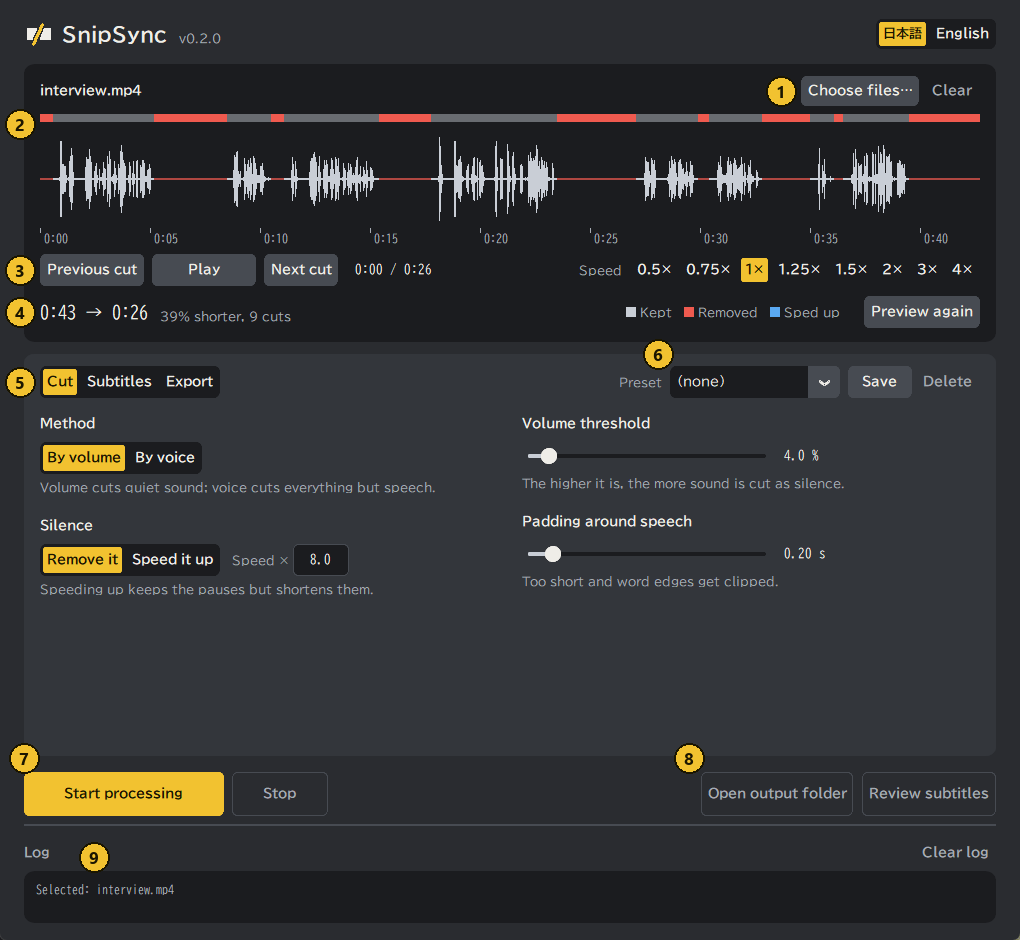
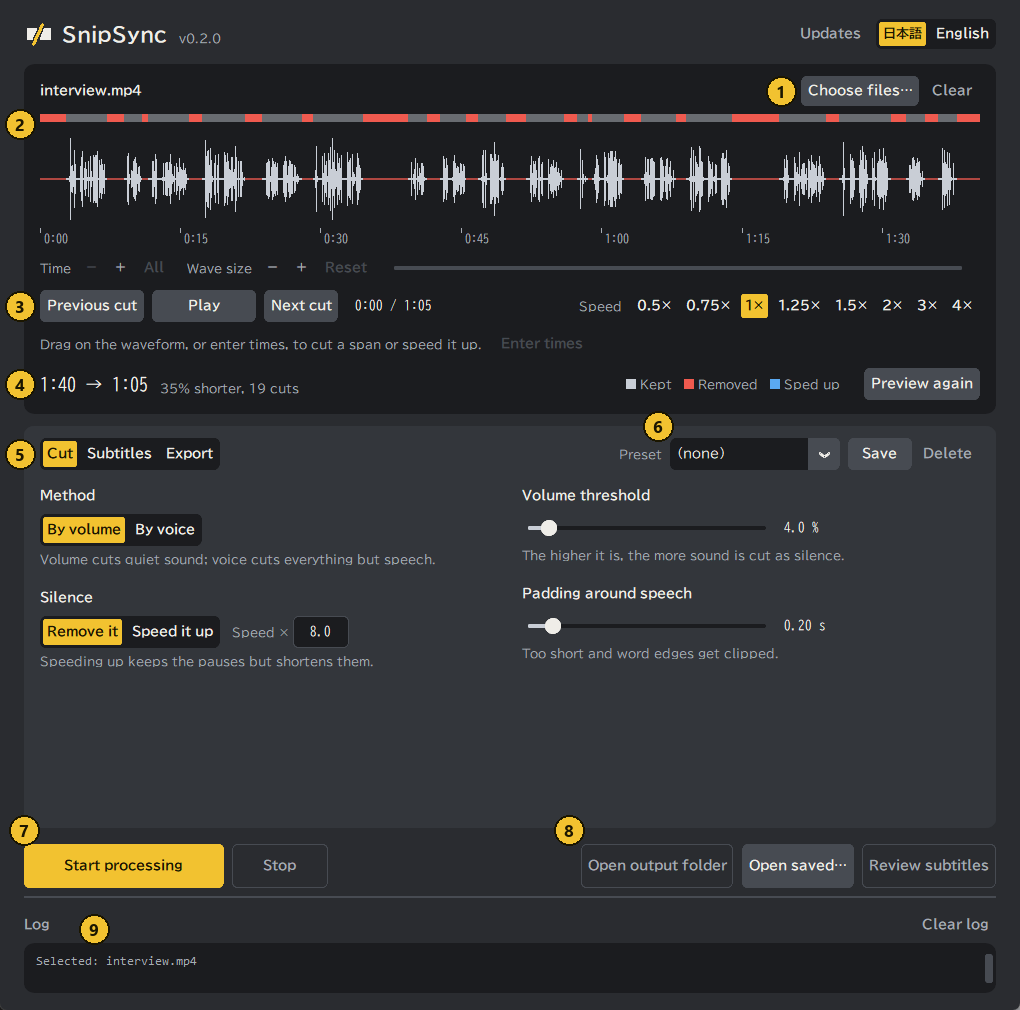
docs: README を見直し、新機能の説明とスクリーンショット・GIF を追加（4 言語）
- 設定項目の名前を、画面の表示に合わせた
- 手動のカット・倍速、波形の拡大・縮小、数値指定、字幕を消すと同時にカット、話者タブ、清書の説明を追加
- 画像をすべて撮り直し、manual・cut の GIF、話者タブ・清書・手動の編集一覧の画像を追加
  （合成音声 2 人分の見本録音を使用。個人の録画は使っていない）

diff --git a/README.md b/README.md
@@ -50,6 +50,8 @@
 
 Because the subtitle pipeline runs transcription on the *already-cut* audio (not the raw source), timecodes in the `.srt` file are always in perfect sync with the exported timeline — a problem that plagues most other tools.
 
+**Hand-tune it after the automatic pass.** Select a span on the waveform by dragging or by typing times, and delete it or speed it up. In the review window, deleting a subtitle can also cut that span of video and audio, and rewrites the subtitles and the timeline. Saved edits can be reopened later.
+
 No Python installation required. SnipSync ships as a single `.exe` file.
 
 **It also works for meeting minutes.** Give it a recording of a meeting (Zoom, Teams, or in person) and it transcribes the audio with the silences taken out, split by speaker, and writes `.txt` or `.md`. Speakers can be given names such as "Yamada" and "Sato", so the result is a ready first draft of the minutes. Audio-only files work too. Transcription and speaker separation still make mistakes, so fix them in the subtitle review window before saving.
@@ -69,11 +71,15 @@ No Python installation required. SnipSync ships as a single `.exe` file.
 | 📁 **Drag & Drop** | Simply drag your video file onto the app window |
 | 📦 **Zero Setup** | Ships as a single `.exe` — no Python, no dependencies to install |
 | 🎙 **Voice-Activity Cut** | Choose volume threshold or speech detection (Silero VAD); optionally speed silence up instead of cutting |
-| 〰 **Waveform Preview** | See exactly what will be cut before you process |
+| 〰 **Waveform Preview** | See exactly what will be cut before you process; zoom the time axis and the wave height separately |
+| ✋ **Manual Cuts & Speed-ups** | Drag a span on the waveform, or type its start and end, then delete it or speed it up. It is laid over the automatic cuts and shows up at once |
+| ✂ **Delete a Subtitle, Cut the Footage** | In the review window, deleting a subtitle can also cut its video and audio; the subtitles and the timeline are rewritten |
+| 🔁 **Resume Editing** | Reopen a saved session (`<name>.snipsync.json`): speaker names, change marks, the source video and manual spans come back |
+| 🧹 **Transcript Polish (LLM)** | Add punctuation and fix obvious mishearings with an LLM on your PC (the text stays on it), or with files to paste into a chat |
 | 🧩 **Batch & Audio Files** | Drop several files or a folder; audio-only inputs and cut-media export supported |
 | 🈶 **Readable Subtitles** | Japanese phrase-aware line breaks (BudouX), glossary hints, optional speaker separation |
 | 📄 **Transcript Export** | Preview and save the whole transcript as `.txt` / `.md` / `.srt` |
-| 📍 **Timeline Markers** | Optional cut-point / speaker-change markers (confirmed in DaVinci Resolve 21; not yet verified in Premiere Pro or Final Cut Pro) |
+| 📍 **Timeline Markers** | Optional cut-point / speaker-change / subtitle-start markers (confirmed in DaVinci Resolve 21; not yet verified in Premiere Pro or Final Cut Pro) |
 
 ### Supported Export Formats
 
@@ -188,7 +194,7 @@ flowchart LR
 | # | Where | What it is |
 |:-:|---|---|
 | ① | Choose files / Clear | You can also drop video or audio files (several, or a whole folder) onto the waveform. **Choose files…** opens a file picker |
-| ② | Waveform | See what will be cut *before* you process. **Red** is removed, **blue** is sped up, grey is kept. Click the waveform to move the playhead there |
+| ② | Waveform | See what will be cut *before* you process. **Red** is removed, **blue** is sped up, grey is kept. Click the waveform to move the playhead there. Drag to select a span for a manual cut or speed-up; the buttons under it zoom |
 | ③ | Playback | Previous cut / Play / Next cut, and playback speed (0.5× to 4×). Listen to the result before processing |
 | ④ | Length and reduction | Length before → after, percent shorter, number of cuts. After changing a setting, press **Preview again** |
 | ⑤ | Setting tabs | **Cut** (method, threshold, padding, silence), **Subtitles** (AI model, speakers, …), **Export** (format, save folder, …) |
@@ -247,12 +253,20 @@ While **Review before saving** is on (the default), processing pauses at the sub
 | ③ | **Preview again** — press it after changing the cut settings to recalculate |
 | ④ | Playback, jumping to the previous or next cut, and playback speed |
 | ⑤ | The bar above the waveform: **red** = removed, **blue** = sped up, grey = kept |
+| ⑥ | Zoom: the **Time** and **Wave size** buttons, **All**, and the scroll bar |
+| ⑦ | Manual cuts: drag a span (or press **Enter times**), then **Cut it** / **Speed up N x** |
 
 **Zooming the waveform:** the **Time** buttons (or the mouse wheel over the waveform) zoom in and out along the time axis, down to half a second; the point under the cursor stays put. While zoomed in, Shift + wheel or the scroll bar moves left and right, and **All** shows everything. **Wave size** (or Ctrl + wheel) makes the waveform taller so quiet sounds are visible. Zooming does not change the cuts.
 
 **Entering a span by numbers:** press **Enter times** (it starts a 5-second span at the play position), or drag a span first, then type **From** and **To** as `90`, `1:30`, `1:30.25` or `0:01:30.250`. Press Enter to confirm; a value that cannot be read, or an end that is not later than the start, goes back to the previous span. The span is clamped to the video length.
 
 **Manual cuts and speed-ups:** drag on the waveform to select a span, then press **Cut it** or **Speed up N x** (N is the Speed value of the Cut tab). The span is laid over the automatic cuts and shows up on the waveform at once, so you can play it to check. **Manual edits: N…** lists them and removes them one by one. A cut is always cut; a speed-up affects only the part that is kept. They apply to the video you have chosen (choosing another clears them), and they go into the timeline, the subtitle times and the editing session when you press Start. A speed-up also speeds up the audio that subtitles are made from, so a very high rate can make the recognised text unreliable.
+
+<p align="center"><img src="docs/images/manual_en.gif" width="760" alt="Manual cuts and speed-ups: select a span, edit its start and end as numbers, delete it (red), speed up another (blue), zoom the time axis and wave height, and open the list of manual edits"></p>
+
+The animation selects a span, edits its start and end as numbers, deletes it (red), speeds up another span (blue), zooms in on time and wave height, and opens the list. **Manual edits: N…** lists the spans you set and removes them one by one.
+
+<p align="center"><img src="docs/images/manual_list_en.png" width="420" alt="The list of manual edits: each span with its kind, start, end and length, removable one by one"></p>
 
 #### 4. (Optional) Read and fix the subtitles — the review window
 
@@ -270,11 +284,24 @@ While **Review before saving** is on (the default), processing pauses at the sub
 | ⑧ | **Save**. **Save as…**, **Copy** and **Open…** are next to it |
 
 - **Speakers tab:** lists each speaker with their speaking time, cue count and share. Speaker separation can split one person into dozens of labels. Select the labels that are the same person and **Merge** them into one; **Listen** plays the speaker's longest cue in the main window so you can tell whose voice it is; **Set name** names a speaker. Two automatic helpers move tiny labels (less than 30 seconds in total, by default) and short remarks between two turns of the same speaker to the nearest speaker in time, after showing you how many speakers remain. **Renumber** orders speakers by speaking time. Every step can be undone.
+
+<p align="center"><img src="docs/images/editor_speakers_en.png" width="640" alt="The Speakers tab: each speaker's speaking time, cue count and share"></p>
+
 - **Click a time** (in the list, or above the text box) to play the main window's preview from that subtitle. It works when the video is chosen in the main window and the cut map is shown.
 - **Delete a subtitle and cut its video and audio at the same time:** turn on **When deleting, also cut the video/audio** under the subtitle, then delete a subtitle. Its span, plus a **margin** on each side (default 0.1 s), is marked for cutting, and the mark also shows on the main window's cut map when the same video is open there. Undo removes the mark. **Save** asks for confirmation, re-times the saved subtitles, and overwrites the timeline in place. **Save as…** writes the subtitles and the timeline (`<name>_snipsynced.<extension>`) under the new name and leaves the original files alone. If rewriting the timeline fails, that is remembered and the next save retries it. It is unavailable while the subtitles are still waiting for the pre-save review, and when the export is the video or audio file itself.
+
+<p align="center"><img src="docs/images/cut_en.gif" width="640" alt="Delete a subtitle and cut its footage: select a subtitle, turn the switch on, delete it, see the span marked on the cut map, then save to rewrite the timeline"></p>
+
+The animation selects a subtitle, turns the switch on, deletes it, shows the red mark on the main window's cut map, and presses **Save** to rewrite the timeline.
+
 - **Where the .srt goes:** every time you save, the log in the main window shows when the first subtitle appears on the timeline (for example `00:00:23:10`). DaVinci Resolve trims the empty time before the first subtitle when it imports an SRT, so put the left edge of the subtitle track (the first subtitle) at that time; if it already sits there after importing, there is nothing to move. When the opening is sped up or cut, the first subtitle is far from 0 s. If timeline markers are on, a green marker named **Subtitles start** is also placed at that time.
 - **Pick up where you left off:** saving also writes `<name>.snipsync.json` next to the output. **Open saved…** (main window) or **Open…** (editor) reads it back after you restart the app: speaker names, the marks for changed rows, the source video and the cut settings come back. An `.srt` alone can be opened too; its `Speaker N:` prefixes are read as speakers, but names, change marks and the video are not kept.
 - **Polish… (LLM):** have an LLM add punctuation and fix obvious mishearings in the tidied transcript. Two ways. **LLM on this PC** talks to an OpenAI-compatible server running on your PC (Ollama, LM Studio, llama.cpp server). Only `127.0.0.1` / `localhost` is accepted, so the text never leaves the PC; prepare the model yourself and enter its name. **Files to paste** writes a `<name>_polish` folder with `00_howto.md` and `01.txt`, `02.txt`… (instructions plus text, split to a length you choose) for pasting into the chat you normally use; that sends the text to that service, so check first. The LLM is told not to summarise or add content, and a returned line is accepted only if its length stays close to the original; otherwise the original line is kept. The result is written as `<name>_polished.txt` / `.md`; the `.srt` and your editing are not touched.
+
+<p align="center"><img src="docs/images/polish_en.png" width="560" alt="The Polish window: choose LLM on this PC or files to paste, then set the endpoint, model and length"></p>
+
+<p align="center"><img src="docs/images/polish_paste_en.png" width="560" alt="The Polish window with Files to paste chosen: the length of each file"></p>
+
 
 <p align="center"><img src="docs/images/editor_en.gif" width="640" alt="Using the review window: select several rows, change their speaker at once, name the speaker, check the .srt preview, and turn off speaker names"></p>
 
@@ -288,22 +315,23 @@ See [Importing into your editor](#importing-into-your-editor) below.
 
 | Setting | What it does |
 |---|---|
-| **Silence Margin** | Extra time kept around speech at each cut (default `0.20 s`) |
-| **Volume Threshold** | Level below which sound counts as silence (default `4.0 %`). Not used by *Voice detection* |
-| **Cut Method** | *Volume threshold*, or *Voice detection (VAD)* — cuts everything that is not a human voice, so it usually copes better with background noise |
+| **Padding around speech** | Extra time kept around speech at each cut (default `0.20 s`) |
+| **Volume threshold** | Level below which sound counts as silence (default `4.0 %`). Not used by *Voice detection* |
+| **Method** | *Volume threshold*, or *Voice detection (VAD)* — cuts everything that is not a human voice, so it usually copes better with background noise |
 | **Silence** | *Cut out* removes silence; *Speed up* keeps it but plays it at the speed you set (default ×8) |
-| **Export Format** | DaVinci Resolve, Premiere Pro, Final Cut Pro, or *Cut media* (a rendered video/audio file) |
+| **Output** | DaVinci Resolve, Premiere Pro, Final Cut Pro, or *Cut media* (a rendered video/audio file) |
 | **Make a dated folder for each run** | On by default. Creates a `date_model` folder (for example `2026-10-04_190357_large-v3`) inside the save folder and writes everything there. Each run gets its own folder, so earlier results are never overwritten. When you process several files at once, they all go into the same folder. If subtitles are off, the name is the date only. A `.fcpxml` stores the location of its audio (`_tracks`) as an absolute path, so do not move the folder after importing. If you did, choose **Yes** in Resolve's dialog and point it at the `_tracks` folder |
-| **Subtitles** | Generate `.srt` with Whisper |
-| **AI Model Size** | `tiny`/`base`/`small` are fast; **`large-v3-turbo` is the recommended accurate model**; `kotoba-whisper` is Japanese-specialised but experimental (its word timing is coarse); `distil-large-v3` is English only |
-| **Use GPU (CUDA)** | Optional. Needs an NVIDIA GPU. The first time, it asks before downloading the components (about 1.4 GB) |
-| **Split subtitles at cut boundaries** | Starts a new subtitle at every cut, so subtitles line up with your clips |
-| **Chars per subtitle line** | Wraps Japanese at natural phrase boundaries (BudouX) and keeps each subtitle to 2 lines. `0` turns it off (default `20`) |
-| **Separate speakers** | Labels who is speaking (`Speaker 1: …`) and starts a new subtitle when the speaker changes. Set **Speakers** (2 to 20) if you know how many people there are: that is the most accurate. On **Auto**, small speaker labels with a similar voice are merged into larger ones, and anything left can be fixed in the review window's Speakers tab |
+| **Make subtitles** | Generate `.srt` with Whisper |
+| **Review before saving** | On by default. After the subtitles are made, processing pauses in the review window; fix them, then save |
+| **AI model** | `tiny`/`base`/`small` are fast; **`large-v3-turbo` is the recommended accurate model**; `kotoba-whisper` is Japanese-specialised but experimental (its word timing is coarse); `distil-large-v3` is English only |
+| **Use the GPU** | Optional. Needs an NVIDIA GPU. The first time, it asks before downloading the components (about 1.4 GB) |
+| **New subtitle at every cut** | Starts a new subtitle at every cut, so subtitles line up with your clips |
+| **Characters per line** | Wraps Japanese at natural phrase boundaries (BudouX) and keeps each subtitle to 2 lines. `0` turns it off (default `20`) |
+| **Label speakers** | Labels who is speaking (`Speaker 1: …`) and starts a new subtitle when the speaker changes. Set **Speakers** (2 to 20) if you know how many people there are: that is the most accurate. On **Auto**, small speaker labels with a similar voice are merged into larger ones, and anything left can be fixed in the review window's Speakers tab |
 | **Add punctuation** | Adds `、` `。` `？` to Japanese transcripts, using a sample sentence for Whisper and the pauses between words. It goes into `.txt` / `.md` and the editor, never into the `.srt` (subtitles carry no commas or full stops) |
 | **Tidy the transcript** | In `.txt` / `.md`, a short remark from another speaker (8 characters or fewer) inside someone's turn is put in brackets in the middle of the sentence, so the sentence is not broken up. Long turns are split into paragraphs at sentence ends. The `.srt` is unchanged. Turn it off in the editor with **Tidy for reading** |
-| **Also write .txt / .md** | Saves the whole transcript (with speakers and timestamps) next to the subtitles |
-| **Add markers** | Adds markers for every cut and every speaker change to the timeline. For Resolve only, they are written to a separate `<name>_markers.edl` file *(experimental — see notes)* |
+| **Also save** (**.txt transcript**, **.md transcript**) | Saves the whole transcript (with speakers and timestamps) next to the subtitles |
+| **Markers (experimental)** | Adds markers for every cut and every speaker change to the timeline. For Resolve only, they are written to a separate `<name>_markers.edl` file *(experimental — see notes)* |
 | **Glossary** | Comma-separated terms (names, product names) that Whisper should prefer |
 | **Preset** | Save and load a whole set of settings. Your last settings are restored on launch |
 
@@ -330,7 +358,7 @@ Menu names can differ slightly between versions.
 
 - **Cut media export at 4K**: the bundled auto-editor (no license key) scales rendered output down to 3200×1800 or less. SnipSync warns you before it starts. **Timeline exports are not affected** — use them for full-resolution work.
 - **Audio-only cut media** is written as `.wav` / `.flac` / `.ogg` / `.opus`. `.mp3`, `.m4a`, `.aac` and `.wma` are written as `.wav` because the bundled auto-editor has no encoder for them.
-- **Markers** are experimental: they are confirmed to import into DaVinci Resolve 21, but not yet verified in Premiere Pro or Final Cut Pro. **DaVinci Resolve does not read markers from `.fcpxml`**, so for Resolve they are written to a separate `<name>_markers.edl` (blue = cut point, yellow = speaker change). In the Media Pool, right-click the **icon of the timeline** you want to mark, choose **Timelines > Import > Timeline Markers from EDL**, then pick that file. Do not use the menu that opens when you right-click an empty area (Timeline > Import > AAF / EDL / XML…): it loads the EDL as a separate timeline of one-frame clips. The EDL's times follow the timeline's start timecode. For Premiere Pro and Final Cut Pro, the markers go inside the timeline file.
+- **Markers** are experimental: they are confirmed to import into DaVinci Resolve 21, but not yet verified in Premiere Pro or Final Cut Pro. **DaVinci Resolve does not read markers from `.fcpxml`**, so for Resolve they are written to a separate `<name>_markers.edl` (blue = cut point, yellow = speaker change, green = start of the subtitles). In the Media Pool, right-click the **icon of the timeline** you want to mark, choose **Timelines > Import > Timeline Markers from EDL**, then pick that file. Do not use the menu that opens when you right-click an empty area (Timeline > Import > AAF / EDL / XML…): it loads the EDL as a separate timeline of one-frame clips. The EDL's times follow the timeline's start timecode. For Premiere Pro and Final Cut Pro, the markers go inside the timeline file.
 - **Cuts differ from SnipSync 0.1.0**: the newer auto-editor also removes cuts and clips that are too short (`--smooth`), so you will see fewer, longer cuts.
 - Subtitles start at the first spoken word, so each subtitle begins a little after the start of its clip. This is expected (the margin is kept silent).
 

diff --git a/README_KO.md b/README_KO.md
@@ -50,6 +50,8 @@
 
 자막 생성 파이프라인은 원본 소스가 아닌 **이미 컷 편집된** 오디오에 대해 음성 인식을 실행하므로, `.srt` 파일의 타임코드가 내보낸 타임라인과 항상 완벽하게 동기화됩니다. 타 도구에서 발생하는 오디오와 자막의 싱크 어긋남 문제를 근본적으로 해결했습니다.
 
+**자동 처리 뒤에 손으로도 다듬을 수 있습니다.** 파형에서 드래그하거나 시각을 입력해 구간을 고르고, 삭제하거나 배속합니다. 자막 확인 창에서 자막을 지우면 그 구간의 영상·음성도 함께 자르고, 자막과 타임라인을 다시 씁니다. 저장한 편집은 나중에 다시 열어 이어서 할 수 있습니다.
+
 Python을 설치할 필요가 없습니다. SnipSync는 단일 `.exe` 파일로 실행됩니다.
 
 **회의록 작성에도 쓸 수 있습니다.** Zoom이나 Teams, 대면 회의를 녹음한 음성을 넣으면, 무음을 줄인 음성을 화자별로 나누어 글로 옮기고 `.txt` 또는 `.md`로 내보냅니다. 화자에 「야마다」「사토」 같은 이름을 붙일 수 있어서, 회의록 초안으로 바로 쓸 수 있습니다. 영상 없이 음성 파일만으로도 처리됩니다. 음성 인식과 화자 분리에는 오류가 남으므로, 자막 확인 창에서 고친 뒤에 저장하세요.
@@ -69,11 +71,15 @@ Python을 설치할 필요가 없습니다. SnipSync는 단일 `.exe` 파일로 
 | 📁 **드래그 앤 드롭** | 비디오 파일을 앱 창에 끌어다 놓기만 하면 됩니다. |
 | 📦 **제로 설정** | 단일 `.exe` 파일로 실행되며, Python이나 종속성을 설치할 필요가 없습니다. |
 | 🎙 **음성 구간 감지 컷** | 볼륨 임계값 또는 음성 감지(Silero VAD) 선택, 무음을 자르지 않고 배속 처리도 가능 |
-| 〰 **파형 미리보기** | 처리 전에 어디가 잘리는지 확인 |
+| 〰 **파형 미리보기** | 처리 전에 어디가 잘리는지 확인. 시간 방향과 파형 높이를 각각 확대·축소 |
+| ✋ **수동 컷·배속** | 파형을 드래그하거나 시작·끝을 숫자로 입력해 구간을 고르고, 삭제하거나 배속합니다. 자동 컷 위에 겹쳐져 바로 표시됩니다 |
+| ✂ **자막을 지우면서 영상·음성도 컷** | 자막 확인 창에서 자막을 삭제하면 그 구간의 영상·음성도 자르고, 자막과 타임라인을 다시 씁니다 |
+| 🔁 **이어서 편집** | 저장한 편집 세션(`<이름>.snipsync.json`)을 열면 화자 이름, 수정 표시, 원본 영상, 수동 구간이 복원됩니다 |
+| 🧹 **문자 기록 다듬기(LLM)** | 이 PC의 LLM(글이 PC 밖으로 나가지 않음) 또는 채팅에 붙여 넣을 파일로 구두점을 보충하고 명백한 오청을 고칩니다 |
 | 🧩 **일괄 처리·오디오 파일** | 여러 파일/폴더 일괄 처리, 오디오 전용 입력과 컷 미디어 내보내기 지원 |
 | 🈶 **읽기 쉬운 자막** | 일본어 문절 줄바꿈(BudouX), 용어 사전, 화자 분리(선택) |
 | 📄 **자막 전문 내보내기** | `.txt` / `.md` / `.srt` 로 미리보기·저장 |
-| 📍 **타임라인 마커** | 컷 지점·화자 전환 마커를 선택적으로 추가(DaVinci Resolve 21 에서 확인함. Premiere Pro·Final Cut Pro 는 검증 전) |
+| 📍 **타임라인 마커** | 컷 지점·화자 전환·자막 시작 마커를 선택적으로 추가(DaVinci Resolve 21 에서 확인함. Premiere Pro·Final Cut Pro 는 검증 전) |
 
 ### 지원하는 내보내기 형식
 
@@ -188,7 +194,7 @@ flowchart LR
 | # | 위치 | 설명 |
 |:-:|---|---|
 | ① | 파일 선택(Choose files) / 해제(Clear) | 영상/오디오 파일(여러 개, 폴더도 가능)을 파형 위에 끌어다 놓아도 됩니다. **Choose files…** 로 선택할 수도 있습니다 |
-| ② | 파형 | 처리하기 *전에* 어디가 잘리는지 볼 수 있습니다. **빨강**은 삭제, **파랑**은 배속, 회색은 남는 부분입니다. 파형을 클릭하면 재생 위치가 그곳으로 이동합니다 |
+| ② | 파형 | 처리하기 *전에* 어디가 잘리는지 볼 수 있습니다. **빨강**은 삭제, **파랑**은 배속, 회색은 남는 부분입니다. 파형을 클릭하면 재생 위치가 그곳으로 이동합니다. 드래그로 구간을 고르면 수동 컷·배속을 할 수 있고, 아래 버튼으로 확대·축소합니다 |
 | ③ | 재생 | Previous cut / Play / Next cut, 재생 속도(0.5×~4×). 처리 전에 잘라낸 결과를 들어볼 수 있습니다 |
 | ④ | 길이와 단축률 | 처리 전 → 처리 후 길이, 단축률, 컷 수. 설정을 바꾸면 **Preview again** 을 누릅니다 |
 | ⑤ | 설정 탭 | **Cut**(방식·임계값·여백·무음 처리), **Subtitles**(AI 모델·화자 등), **Export**(형식·저장 위치 등) |
@@ -247,12 +253,20 @@ Subtitles 탭과 Export 탭은 다음과 같습니다.
 | ③ | **Preview again** — 컷 설정을 바꾼 뒤 눌러서 다시 계산합니다 |
 | ④ | 재생, 이전/다음 컷으로 이동, 재생 속도 |
 | ⑤ | 파형 위의 띠: **빨강** = 삭제, **파랑** = 배속, 회색 = 남음 |
+| ⑥ | 확대·축소: **Time** 과 **Wave size** 버튼, **All**, 스크롤 바 |
+| ⑦ | 수동 컷: 구간을 드래그(또는 **Enter times**)한 뒤 **Cut it** / **Speed up N x** |
 
 **파형 확대·축소:** **Time** 버튼(또는 파형 위에서 마우스 휠)으로 시간 축을 0.5초 폭까지 확대·축소할 수 있으며, 커서 아래의 위치는 움직이지 않습니다. 확대 중에는 Shift + 휠이나 스크롤 바로 좌우로 이동하고, **All** 로 전체를 봅니다. **Wave size**(또는 Ctrl + 휠)로 파형의 높이를 키우면 작은 소리도 보입니다. 확대해도 컷 결과는 바뀌지 않습니다.
 
 **숫자로 구간 지정:** **Enter times** 를 누르거나(재생 위치에서 5초 구간이 만들어짐), 먼저 드래그로 구간을 고른 뒤 **From** 과 **To** 를 `90`, `1:30`, `1:30.25`, `0:01:30.250` 형식으로 입력하고 Enter 로 확정합니다. 읽을 수 없는 값이나 시작보다 앞선 끝 시간은 직전 구간으로 되돌아갑니다. 영상 길이를 넘는 부분은 영상 길이까지로 제한됩니다.
 
 **수동 컷·배속:** 파형을 드래그해 구간을 고른 뒤 **Cut it**(삭제) 또는 **Speed up N x**(N은 Cut 탭의 배율)를 누릅니다. 구간은 자동 컷 위에 겹쳐져 바로 파형에 표시되므로 재생해서 확인할 수 있습니다. **Manual edits: N…** 에서 목록을 보고 하나씩 해제할 수 있습니다. 삭제는 반드시 잘리고, 배속은 남는 부분에만 적용됩니다. 지금 고른 영상에만 적용되며(다른 영상을 고르면 지워짐), 시작을 누르면 타임라인·자막 시간·편집 세션에도 반영됩니다. 배속한 부분은 자막을 만드는 음성도 배속되므로, 배율이 너무 높으면 인식이 불안정할 수 있습니다.
+
+<p align="center"><img src="docs/images/manual_en.gif" width="760" alt="수동 컷·배속: 구간을 고르고, 시작·끝을 숫자로 고치고, 삭제(빨강), 다른 구간 배속(파랑), 시간과 파형 높이 확대, 수동 편집 목록 열기"></p>
+
+애니메이션은 구간을 고르고, 시작·끝을 숫자로 고치고, 삭제(빨강)하고, 다른 구간을 배속(파랑)하고, 시간과 파형 높이를 확대한 뒤 목록을 여는 순서입니다. **Manual edits: N…** 에서 정한 구간을 보고 하나씩 해제할 수 있습니다.
+
+<p align="center"><img src="docs/images/manual_list_en.png" width="420" alt="수동 편집 목록: 구간별 종류, 시작, 끝, 길이가 표시되며 하나씩 해제 가능"></p>
 
 #### 4. (선택) 자막 확인하고 고치기 — 자막 확인·편집 창
 
@@ -270,11 +284,24 @@ Subtitles 탭과 Export 탭은 다음과 같습니다.
 | ⑧ | **Save**. 옆에 **Save as…**, **Copy**, **Open…** 가 있습니다 |
 
 - **Speakers 탭:** 화자별 발화 시간, 자막 수, 비율을 보여 줍니다. 화자 분리는 한 사람을 수십 개의 라벨로 나누기도 합니다. 같은 사람의 라벨을 골라 **Merge** 하면 한 화자로 합쳐집니다. **Listen** 은 그 화자의 가장 긴 자막을 메인 창에서 재생해 누구의 목소리인지 확인할 수 있게 하고, **Set name** 으로 이름을 붙일 수 있습니다. 자동 정리 기능도 두 가지 있습니다. 발화 합계가 짧은 라벨(기본 30초 미만)과, 같은 화자의 발언 사이에 낀 짧은 발언을 시간상 가장 가까운 화자로 옮기며, 적용 전에 화자가 몇 명으로 줄어드는지 먼저 보여 줍니다. **Renumber** 는 발화 시간이 긴 순서로 번호를 다시 매깁니다. 모든 단계는 되돌릴 수 있습니다.
+
+<p align="center"><img src="docs/images/editor_speakers_en.png" width="640" alt="Speakers 탭: 화자별 발화 시간, 자막 수, 비율"></p>
+
 - **시간을 누르면**(목록의 시간 또는 본문 위의 시간) 메인 창의 미리보기가 그 자막의 처음부터 재생됩니다. 메인 창에서 영상을 고르고 컷 맵이 표시되어 있을 때 사용할 수 있습니다.
-- **자막을 지우면서 영상·음성도 함께 자르기:** 자막 아래의 **삭제하면 영상·음성도 자르기**를 켜고 자막을 삭제하면, 그 자막의 구간(앞뒤에 **여유**를 더한 범위, 기본 0.1초)에 자르기 표시가 붙습니다. 메인 화면에서 같은 영상을 열어 두었다면 컷 맵에도 표시됩니다. 되돌리기를 하면 표시도 사라집니다. **저장**을 누르면 확인한 뒤 자막 시각을 다시 맞춰 저장하고, 타임라인을 같은 위치에 덮어씁니다. **다른 이름으로 저장…**은 자막과 타임라인(`<이름>_snipsynced.<확장자>`)을 새 이름으로 쓰고 원래 파일은 그대로 둡니다. 타임라인 다시 쓰기에 실패하면 기록해 두었다가 다음 저장 때 다시 시도합니다. 자막이 저장 전 확인 중일 때와, 내보내기가 영상·음성 파일 자체일 때는 쓸 수 없습니다.
-- **.srt를 놓는 위치:** 저장할 때마다 메인 화면의 로그에 첫 자막이 타임라인에 나오는 시각(예: `00:00:23:10`)이 표시됩니다. DaVinci Resolve는 SRT를 가져올 때 첫 자막 앞의 빈 시간을 없애므로, 자막 트랙의 왼쪽 끝(첫 자막)을 그 시각에 놓으세요(가져온 시점에 이미 그 시각이면 옮길 필요 없습니다). 앞부분을 배속하거나 잘랐다면 첫 자막은 0초에서 멀어집니다. 타임라인 마커를 켠 경우, 같은 시각에 **자막의 선두**라는 녹색 마커도 들어갑니다.
+- **자막을 지우면서 영상·음성도 함께 자르기:** 자막 아래의 **When deleting, also cut the video/audio**(삭제하면 영상·음성도 자르기)를 켜고 자막을 삭제하면, 그 자막의 구간(앞뒤에 **여유**를 더한 범위, 기본 0.1초)에 자르기 표시가 붙습니다. 메인 화면에서 같은 영상을 열어 두었다면 컷 맵에도 표시됩니다. 되돌리기를 하면 표시도 사라집니다. **저장**을 누르면 확인한 뒤 자막 시각을 다시 맞춰 저장하고, 타임라인을 같은 위치에 덮어씁니다. **다른 이름으로 저장…**은 자막과 타임라인(`<이름>_snipsynced.<확장자>`)을 새 이름으로 쓰고 원래 파일은 그대로 둡니다. 타임라인 다시 쓰기에 실패하면 기록해 두었다가 다음 저장 때 다시 시도합니다. 자막이 저장 전 확인 중일 때와, 내보내기가 영상·음성 파일 자체일 때는 쓸 수 없습니다.
+
+<p align="center"><img src="docs/images/cut_en.gif" width="640" alt="자막을 지우면서 영상·음성도 자르기: 자막을 고르고, 스위치를 켜고 삭제하고, 컷 맵에서 표시를 확인한 뒤 저장해 타임라인을 다시 씀"></p>
+
+애니메이션은 자막을 고르고, 스위치를 켜고, 삭제하고, 메인 창의 컷 맵에 빨간 표시가 뜨는 것을 확인한 뒤 **Save** 로 타임라인을 다시 쓰는 순서입니다.
+
+- **.srt를 놓는 위치:** 저장할 때마다 메인 화면의 로그에 첫 자막이 타임라인에 나오는 시각(예: `00:00:23:10`)이 표시됩니다. DaVinci Resolve는 SRT를 가져올 때 첫 자막 앞의 빈 시간을 없애므로, 자막 트랙의 왼쪽 끝(첫 자막)을 그 시각에 놓으세요(가져온 시점에 이미 그 시각이면 옮길 필요 없습니다). 앞부분을 배속하거나 잘랐다면 첫 자막은 0초에서 멀어집니다. 타임라인 마커를 켠 경우, 같은 시각에 **Subtitles start**라는 녹색 마커도 들어갑니다.
 - **앱을 닫아도 이어서 편집:** 저장하면 출력 옆에 `<이름>.snipsync.json` 도 함께 기록합니다. 앱을 다시 켠 뒤 메인 창의 **Open saved…** 또는 편집 창의 **Open…** 으로 불러오면 화자 이름, 수정 표시, 원본 영상, 컷 설정이 복원됩니다. `.srt` 만으로도 열 수 있으며, `Speaker N:` 은 화자로 읽지만 이름, 수정 표시, 영상은 복원되지 않습니다.
 - **Polish…(LLM):** 정리된 문자 기록에 LLM으로 구두점을 보충하고 명백한 오청을 고칩니다. 두 가지 방식이 있습니다. **LLM on this PC** 는 이 PC에서 실행 중인 OpenAI 호환 서버(Ollama, LM Studio, llama.cpp server)에 연결합니다. `127.0.0.1` / `localhost` 만 허용하므로 글은 PC 밖으로 나가지 않으며, 모델은 직접 준비해 이름을 입력합니다. **Files to paste** 는 `<이름>_polish` 폴더에 `00_howto.md` 와 `01.txt`, `02.txt`…(지시문과 본문, 길이 선택 가능)를 만들어 평소 쓰는 채팅에 붙여 넣게 합니다. 이 경우 글이 그 서비스로 전송되므로 먼저 확인하세요. LLM에는 요약이나 내용 추가를 하지 말라고 지시하며, 돌아온 줄은 길이가 원문과 가까울 때만 채택하고 아니면 원문을 유지합니다. 결과는 `<이름>_polished.txt` / `.md` 에 쓰이며 `.srt` 와 편집 중인 자막은 바뀌지 않습니다.
+
+<p align="center"><img src="docs/images/polish_en.png" width="560" alt="Polish 창: 이 PC의 LLM 또는 붙여 넣을 파일을 고르고, 주소·모델·길이를 설정"></p>
+
+<p align="center"><img src="docs/images/polish_paste_en.png" width="560" alt="Files to paste 를 고른 Polish 창: 파일 하나의 글자 수"></p>
+
 
 <p align="center"><img src="docs/images/editor_en.gif" width="640" alt="자막 확인·편집 창 조작: 여러 행 선택, 화자 일괄 변경, 화자 이름 지정, .srt 미리 보기 확인, 화자 이름 끄기"></p>
 
@@ -295,6 +322,7 @@ Subtitles 탭과 Export 탭은 다음과 같습니다.
 | **내보내기 형식** | DaVinci Resolve / Premiere Pro / Final Cut Pro / “컷 미디어”(렌더링된 영상·오디오) |
 | **처리할 때마다 날짜 폴더 만들기** | 기본값은 켜짐. 저장 위치 안에 `날짜_모델명` 폴더(예: `2026-10-04_190357_large-v3`)를 만들어 그곳에 씁니다. 처리할 때마다 다른 폴더가 되므로 이전 결과를 덮어쓰지 않습니다. 여러 파일을 한꺼번에 처리하면 모두 같은 폴더에 들어갑니다. 자막을 만들지 않으면 날짜만 씁니다. `.fcpxml` 은 오디오(`_tracks`)의 위치를 절대 경로로 가지고 있으므로, 불러온 뒤에는 폴더를 옮기지 마세요. 옮겼다면 Resolve 대화상자에서 “예”를 고르고 `_tracks` 폴더를 지정하세요 |
 | **자막 생성** | Whisper 로 `.srt` 생성 |
+| **저장하기 전에 확인**(Review before saving) | 기본값은 켜짐. 자막을 만든 뒤 자막 확인 창에서 멈춥니다. 고친 다음 저장합니다 |
 | **AI 모델** | `tiny`/`base`/`small` 은 빠름. **정확도가 중요하면 `large-v3-turbo` 권장**. `kotoba-whisper` 는 일본어 특화지만 실험적(단어 시각이 거침). `distil-large-v3` 는 영어 전용 |
 | **GPU 사용 (CUDA)** | 선택 사항. NVIDIA GPU 가 필요합니다. 처음에는 부품(약 1.4GB)을 내려받아도 되는지 먼저 묻습니다 |
 | **컷 경계에서 자막 분할** | 컷마다 새 자막을 시작해 클립과 자막 위치를 맞춤 |
@@ -330,7 +358,7 @@ Subtitles 탭과 Export 탭은 다음과 같습니다.
 
 - **4K 미디어 내보내기**: 번들된 auto-editor(라이선스 키 없음)는 렌더링 결과를 3200×1800 이하로 자동 축소합니다. 시작 전에 SnipSync 가 경고합니다. **타임라인 내보내기는 영향이 없으므로** 원본 해상도가 필요하면 타임라인을 사용하세요.
 - **오디오 전용 컷 미디어**는 `.wav` / `.flac` / `.ogg` / `.opus` 로 출력합니다. `.mp3` / `.m4a` / `.aac` / `.wma` 는 번들된 auto-editor 에 인코더가 없어 `.wav` 로 출력됩니다.
-- **마커**는 실험적 기능입니다. DaVinci Resolve 21 에서는 가져오기를 확인했지만, Premiere Pro 와 Final Cut Pro 에서는 아직 확인하지 않았습니다. **DaVinci Resolve 는 `.fcpxml` 의 마커를 읽지 않으므로**, Resolve 용 마커는 별도 파일 `<이름>_markers.edl` 로 내보냅니다(파란색 = 컷 지점, 노란색 = 화자 전환). 미디어 풀에서 마커를 넣을 타임라인의 **아이콘**을 오른쪽 클릭하고 **Timelines > Import > Timeline Markers from EDL** 을 골라 그 파일을 불러오세요. 빈 곳을 오른쪽 클릭했을 때 나오는 “타임라인 > 가져오기 > AAF / EDL / XML…” 은 쓰지 마세요. EDL 이 1프레임짜리 클립으로 이루어진 별도의 타임라인으로 들어옵니다. EDL 의 시각은 타임라인의 시작 타임코드에 맞춰져 있습니다. Premiere Pro 와 Final Cut Pro 에서는 마커가 타임라인 파일 안에 들어갑니다.
+- **마커**는 실험적 기능입니다. DaVinci Resolve 21 에서는 가져오기를 확인했지만, Premiere Pro 와 Final Cut Pro 에서는 아직 확인하지 않았습니다. **DaVinci Resolve 는 `.fcpxml` 의 마커를 읽지 않으므로**, Resolve 용 마커는 별도 파일 `<이름>_markers.edl` 로 내보냅니다(파란색 = 컷 지점, 노란색 = 화자 전환, 초록색 = 자막 시작). 미디어 풀에서 마커를 넣을 타임라인의 **아이콘**을 오른쪽 클릭하고 **Timelines > Import > Timeline Markers from EDL** 을 골라 그 파일을 불러오세요. 빈 곳을 오른쪽 클릭했을 때 나오는 “타임라인 > 가져오기 > AAF / EDL / XML…” 은 쓰지 마세요. EDL 이 1프레임짜리 클립으로 이루어진 별도의 타임라인으로 들어옵니다. EDL 의 시각은 타임라인의 시작 타임코드에 맞춰져 있습니다. Premiere Pro 와 Final Cut Pro 에서는 마커가 타임라인 파일 안에 들어갑니다.
 - **컷 결과가 SnipSync 0.1.0 과 다릅니다**: 새 auto-editor 는 너무 짧은 컷과 클립도 제거하므로(`--smooth`) 컷 수가 줄고 하나가 길어집니다.
 - 자막은 처음 말한 단어부터 시작하므로 각 자막은 클립 시작보다 조금 늦게 시작합니다. 정상 동작입니다(마진 구간은 무음으로 남아 있음).
 

diff --git a/README_ZH.md b/README_ZH.md
@@ -50,6 +50,8 @@
 
 由于字幕管道是在**已剪辑**的音频（而不是原始素材）上运行转录，因此 `.srt` 文件中的时间码始终与导出的时间线完美同步，这彻底解决了困扰大多数同类工具的音画不同步问题。
 
+**自动处理之后，也能手动微调。** 在波形上拖动或输入时间来选择一段，然后删除或加速。在字幕确认窗口中删除字幕时，还可以同时裁掉这一段的视频和音频，并重写字幕和时间线。保存的编辑之后可以重新打开继续。
+
 无需安装 Python 环境。SnipSync 作为单个 `.exe` 文件发布，开箱即用。
 
 **也适合整理会议纪要。** 把 Zoom、Teams 或现场录下的会议音频交给它，它会把去掉静音后的音频按说话人分开转写，并导出为 `.txt` 或 `.md`。说话人可以改成「山田」「佐藤」这样的名字，导出的文字可直接作为会议纪要的初稿。只有音频文件（没有视频）也能处理。转写和说话人分离仍会有错误，请在字幕确认窗口中修改后再保存。
@@ -69,11 +71,15 @@
 | 📁 **拖放支持** | 只需将视频文件拖到应用程序窗口中即可 |
 | 📦 **零配置** | 单个 `.exe` 文件发布 — 免安装 Python 及任何依赖包 |
 | 🎙 **语音检测剪切** | 可选音量阈值或语音检测（Silero VAD）；也可将静音加速而不是剪掉 |
-| 〰 **波形预览** | 处理前即可看到哪些部分会被剪掉 |
+| 〰 **波形预览** | 处理前即可看到哪些部分会被剪掉；时间方向和波形高度可分别放大、缩小 |
+| ✋ **手动剪切与加速** | 在波形上拖动，或输入开始和结束时间来选择区间，再删除或加速。区间会叠加在自动剪切之上，立即显示 |
+| ✂ **删除字幕的同时裁掉素材** | 在字幕确认窗口删除字幕时，可同时裁掉对应的视频和音频，并重写字幕和时间线 |
+| 🔁 **继续编辑** | 重新打开已保存的编辑会话（`<名称>.snipsync.json`），说话人名称、修改标记、原视频和手动区间都会恢复 |
+| 🧹 **文字稿润色（LLM）** | 用本机上的 LLM（文字不离开本机），或用可粘贴到聊天中的文件，补充标点并修正明显的听错 |
 | 🧩 **批量与音频文件** | 支持多个文件／文件夹；支持纯音频输入和导出剪切后的媒体 |
 | 🈶 **易读字幕** | 日语按词组换行（BudouX）、术语表、可选说话人分离 |
 | 📄 **字幕全文导出** | 可预览并保存为 `.txt` / `.md` / `.srt` |
-| 📍 **时间线标记** | 可选添加剪切点／说话人切换标记（已在 DaVinci Resolve 21 中确认；Premiere Pro、Final Cut Pro 尚未验证） |
+| 📍 **时间线标记** | 可选添加剪切点／说话人切换／字幕开头标记（已在 DaVinci Resolve 21 中确认；Premiere Pro、Final Cut Pro 尚未验证） |
 
 ### 支持的导出格式
 
@@ -188,7 +194,7 @@ flowchart LR
 | # | 位置 | 说明 |
 |:-:|---|---|
 | ① | 选择文件（Choose files）/ 清除（Clear） | 也可以把视频/音频文件（多个或整个文件夹）拖到波形上。**Choose files…** 用来选择文件 |
-| ② | 波形 | 处理*之前*就能看到哪些部分会被剪掉。**红色**为删除，**蓝色**为加速，灰色为保留。点击波形可把播放位置移到那里 |
+| ② | 波形 | 处理*之前*就能看到哪些部分会被剪掉。**红色**为删除，**蓝色**为加速，灰色为保留。点击波形可把播放位置移到那里。拖动选择一段，可做手动剪切或加速；下方的按钮可放大、缩小 |
 | ③ | 播放 | Previous cut / Play / Next cut，以及播放速度（0.5×〜4×）。处理前就能听到剪切后的效果 |
 | ④ | 时长与缩短率 | 处理前 → 处理后的时长、缩短比例、剪切次数。修改设置后，请点击 **Preview again** |
 | ⑤ | 设置标签页 | **Cut**（方式、阈值、余量、静音处理）、**Subtitles**（AI 模型、说话人等）、**Export**（格式、保存位置等） |
@@ -247,12 +253,20 @@ Subtitles 和 Export 标签页如下。
 | ③ | **Preview again** — 修改剪切设置后点击，重新计算 |
 | ④ | 播放、跳到上一个/下一个剪切点、播放速度 |
 | ⑤ | 波形上方的色条：**红色** = 删除，**蓝色** = 加速，灰色 = 保留 |
+| ⑥ | 放大、缩小：**Time** 和 **Wave size** 按钮、**All**、滚动条 |
+| ⑦ | 手动剪切：拖动选择一段（或按 **Enter times**），再按 **Cut it** / **Speed up N x** |
 
 **放大波形：** **Time** 按钮（或在波形上滚动鼠标滚轮）可沿时间轴放大、缩小，最小到 0.5 秒；光标下的位置保持不动。放大时，Shift + 滚轮或滚动条可左右移动，**All** 显示全部。**Wave size**（或 Ctrl + 滚轮）可加高波形，便于看到小声音。放大不会改变剪切结果。
 
 **用数值指定区间：** 按 **Enter times**（从播放位置开始一段 5 秒的区间），或先拖选一段，再以 `90`、`1:30`、`1:30.25`、`0:01:30.250` 的形式输入 **From** 和 **To**，按 Enter 确认。无法识别的值，或不晚于开始的结束时间，会恢复为之前的区间。超出视频长度的部分会被限制在视频长度内。
 
 **手动剪切与加速：** 在波形上拖动选择一段，然后按 **Cut it**（删除）或 **Speed up N x**（N 为 Cut 标签页的倍率）。该区间会叠加在自动剪切之上，并立即显示在波形上，可以播放确认。**Manual edits: N…** 可查看清单并逐条取消。删除一定会被剪掉；加速只作用于保留的部分。仅对当前选择的视频有效（选择其他视频会清除），点击开始后，也会反映到时间线、字幕时间和编辑会话中。加速的部分，生成字幕用的音频也会加速，倍率过高时识别结果可能不稳定。
+
+<p align="center"><img src="docs/images/manual_en.gif" width="760" alt="手动剪切与加速：选择区间，用数值修改开始和结束，删除（红色），另一段加速（蓝色），放大时间和波形高度，打开手动编辑清单"></p>
+
+动画依次演示：选择区间，用数值修改开始和结束，删除（红色），另一段加速（蓝色），放大时间和波形高度，打开清单。**Manual edits: N…** 会列出你设定的区间，可逐条取消。
+
+<p align="center"><img src="docs/images/manual_list_en.png" width="420" alt="手动编辑清单：每个区间的类型、开始、结束和长度，可逐条取消"></p>
 
 #### 4.（可选）确认并修改字幕 — 字幕确认·编辑窗口
 
@@ -270,11 +284,24 @@ Subtitles 和 Export 标签页如下。
 | ⑧ | **Save**。旁边有 **Save as…**、**Copy**、**Open…** |
 
 - **Speakers 标签页：** 列出每位说话人的发言时长、字幕条数和占比。说话人分离有时会把一个人拆成几十个标签。选中属于同一个人的标签后点 **Merge**，即可合并为一位说话人；**Listen** 会在主窗口播放该说话人最长的一条字幕，方便确认是谁的声音；**Set name** 可以命名。另有两个自动整理功能：把总时长很短的标签（默认不足 30 秒），以及夹在同一说话人两段发言之间的短句，归并到时间上最近的说话人；应用前会先显示合并后还剩多少位说话人。**Renumber** 按发言时长重新编号。每一步都可以撤销。
+
+<p align="center"><img src="docs/images/editor_speakers_en.png" width="640" alt="Speakers 标签页：每位说话人的发言时长、条数和占比"></p>
+
 - **点击时间**（列表中的时间，或文本框上方的时间），主窗口的预览会从该字幕开头播放。需要在主窗口中选好视频并显示出剪切图。
-- **删除字幕的同时，裁掉对应的视频和音频：**在字幕下方打开 **删除时同时裁掉视频和音频**，再删除字幕，该字幕的区间（前后各加上 **余量**，默认 0.1 秒）就会被标上裁剪标记；主窗口打开了同一个视频时，裁剪图上也会显示。撤销会一并取消标记。**保存** 会先确认，然后重新对齐字幕时间并保存，同时在原位置覆盖时间线。**另存为…** 会用新名称写出字幕和时间线（`<名称>_snipsynced.<扩展名>`），原文件保持不变。时间线重写失败时会记住这一点，下次保存时重试。字幕仍在等待保存前确认时、以及导出本身是视频或音频文件时，不能使用。
-- **.srt 的放置位置：**每次保存时，主窗口的日志会显示第一条字幕出现在时间线上的时间（例如 `00:00:23:10`）。DaVinci Resolve 导入 SRT 时会去掉第一条字幕之前的空白，所以请把字幕轨道的左端（第一条字幕）放在该时间；导入后如果已经在该时间，就不用移动。开头被加速或裁掉时，第一条字幕会离 0 秒很远。开启时间线标记时，同一时间还会加入名为 **字幕的先头** 的绿色标记。
+- **删除字幕的同时，裁掉对应的视频和音频：**在字幕下方打开 **When deleting, also cut the video/audio**（删除时同时裁掉视频和音频），再删除字幕，该字幕的区间（前后各加上 **余量**，默认 0.1 秒）就会被标上裁剪标记；主窗口打开了同一个视频时，裁剪图上也会显示。撤销会一并取消标记。**保存** 会先确认，然后重新对齐字幕时间并保存，同时在原位置覆盖时间线。**另存为…** 会用新名称写出字幕和时间线（`<名称>_snipsynced.<扩展名>`），原文件保持不变。时间线重写失败时会记住这一点，下次保存时重试。字幕仍在等待保存前确认时、以及导出本身是视频或音频文件时，不能使用。
+
+<p align="center"><img src="docs/images/cut_en.gif" width="640" alt="删除字幕的同时裁掉素材：选中字幕，打开开关并删除，在剪切图上看到标记，保存后重写时间线"></p>
+
+动画依次演示：选中字幕，打开开关，删除，在主窗口的剪切图上看到红色标记，按 **Save** 重写时间线。
+
+- **.srt 的放置位置：**每次保存时，主窗口的日志会显示第一条字幕出现在时间线上的时间（例如 `00:00:23:10`）。DaVinci Resolve 导入 SRT 时会去掉第一条字幕之前的空白，所以请把字幕轨道的左端（第一条字幕）放在该时间；导入后如果已经在该时间，就不用移动。开头被加速或裁掉时，第一条字幕会离 0 秒很远。开启时间线标记时，同一时间还会加入名为 **Subtitles start** 的绿色标记。
 - **关闭应用后也能继续编辑：** 保存时会在输出旁边同时写入 `<名称>.snipsync.json`。重启应用后，用主窗口的 **Open saved…** 或编辑窗口的 **Open…** 读取，说话人名称、修改标记、原视频和剪切设置都会恢复。只有 `.srt` 也能打开：其中的 `Speaker N:` 会被读作说话人，但名称、修改标记和视频不会恢复。
 - **Polish…（LLM）：** 让 LLM 为整理好的文字稿补充标点、修正明显的听错。有两种方式。**LLM on this PC** 连接本机上运行的 OpenAI 兼容服务器（Ollama、LM Studio、llama.cpp server），只接受 `127.0.0.1` / `localhost`，文字不会离开本机；模型需自行准备并填写名称。**Files to paste** 会生成 `<名称>_polish` 文件夹，内含 `00_howto.md` 和 `01.txt`、`02.txt`…（指令加正文，长度可选），用于粘贴到你常用的聊天中；这样文字会发送给该服务，请先确认。LLM 被要求不得概括或添加内容，返回的行只有长度与原文接近时才会采纳，否则保留原文。结果写入 `<名称>_polished.txt` / `.md`，不会改动 `.srt` 和正在编辑的字幕。
+
+<p align="center"><img src="docs/images/polish_en.png" width="560" alt="Polish 窗口：选择本机 LLM 或可粘贴的文件，再设置地址、模型和长度"></p>
+
+<p align="center"><img src="docs/images/polish_paste_en.png" width="560" alt="选择“Files to paste”时的 Polish 窗口：每个文件的字数"></p>
+
 
 <p align="center"><img src="docs/images/editor_en.gif" width="640" alt="字幕确认·编辑窗口的操作：选择多行、一起更改说话人、命名说话人、查看 .srt 预览、关闭说话人名称"></p>
 
@@ -295,6 +322,7 @@ Subtitles 和 Export 标签页如下。
 | **导出格式** | DaVinci Resolve / Premiere Pro / Final Cut Pro / “剪切后的媒体”（已渲染的视频/音频） |
 | **每次处理都建一个日期文件夹** | 默认开启。在保存位置内建一个 `日期_模型名` 文件夹（例如 `2026-10-04_190357_large-v3`），并写入其中。每次处理使用不同的文件夹，不会覆盖之前的结果。一次处理多个文件时，全部放在同一个文件夹里。未生成字幕时，只用日期命名。`.fcpxml` 以绝对路径记录音频（`_tracks`）的位置，导入后请不要移动文件夹。若已移动，请在 Resolve 的对话框中选择“是”，并指定 `_tracks` 文件夹 |
 | **字幕生成** | 使用 Whisper 生成 `.srt` |
+| **保存前先确认**（Review before saving） | 默认开启。生成字幕后，处理会停在字幕确认窗口；修改后再保存 |
 | **AI 模型** | `tiny`/`base`/`small` 速度快；**追求精度推荐 `large-v3-turbo`**；`kotoba-whisper` 专为日语优化但属实验性（单词时间较粗）；`distil-large-v3` 仅限英语 |
 | **使用 GPU (CUDA)** | 可选。需要 NVIDIA GPU。首次使用时会先询问是否下载组件（约 1.4GB） |
 | **按剪切点拆分字幕** | 在每个剪切点开始新字幕，使字幕与片段对齐 |
@@ -330,7 +358,7 @@ Subtitles 和 Export 标签页如下。
 
 - **4K 媒体导出**：内置的 auto-editor（无许可证密钥）会把渲染结果缩小到 3200×1800 以内。开始前 SnipSync 会给出警告。**时间线导出不受影响**，需要原分辨率时请使用时间线导出。
 - **仅音频的剪切媒体**以 `.wav` / `.flac` / `.ogg` / `.opus` 输出。`.mp3` / `.m4a` / `.aac` / `.wma` 因内置 auto-editor 没有对应编码器，会输出为 `.wav`。
-- **标记**属于实验性功能，已确认可导入 DaVinci Resolve 21，但尚未在 Premiere Pro 和 Final Cut Pro 中验证。**DaVinci Resolve 不会读取 `.fcpxml` 中的标记**，因此面向 Resolve 的标记会写入单独的文件 `<名称>_markers.edl`（蓝色 = 剪切点，黄色 = 说话人切换）。请在媒体池中右键单击想要加标记的时间线的**图标**，选择 **Timelines > Import > Timeline Markers from EDL**，再选择该文件。不要使用在空白处右键单击后出现的“时间线 > 导入 > AAF / EDL / XML…”：它会把 EDL 当作由单帧片段组成的另一条时间线导入。EDL 中的时间已对齐时间线的起始时间码。Premiere Pro 和 Final Cut Pro 的标记则写在时间线文件内部。
+- **标记**属于实验性功能，已确认可导入 DaVinci Resolve 21，但尚未在 Premiere Pro 和 Final Cut Pro 中验证。**DaVinci Resolve 不会读取 `.fcpxml` 中的标记**，因此面向 Resolve 的标记会写入单独的文件 `<名称>_markers.edl`（蓝色 = 剪切点，黄色 = 说话人切换，绿色 = 字幕开头）。请在媒体池中右键单击想要加标记的时间线的**图标**，选择 **Timelines > Import > Timeline Markers from EDL**，再选择该文件。不要使用在空白处右键单击后出现的“时间线 > 导入 > AAF / EDL / XML…”：它会把 EDL 当作由单帧片段组成的另一条时间线导入。EDL 中的时间已对齐时间线的起始时间码。Premiere Pro 和 Final Cut Pro 的标记则写在时间线文件内部。
 - **剪切结果与 SnipSync 0.1.0 不同**：新版 auto-editor 还会去除过短的剪切和片段（`--smooth`），因此剪切数量更少、单段更长。
 - 字幕从第一个说出的词开始，所以每条字幕会比片段开头稍晚开始。这是正常的（余量部分保持静音）。
 

diff --git a/CHANGELOG.md b/CHANGELOG.md
@@ -35,6 +35,16 @@
 - **話者の切り替わりを、語や文節の途中に置かない**: 日本語の語（トークン）は 1〜2 文字のことがあり、話者分離の区間の境目が語の途中に来ると、「毎」と「月」が別の話者になり、字幕が語の途中で切れていた。文節（BudouX）の中は、いちばん長く話した話者に揃え、前後を同じ話者に挟まれた 0.5 秒未満の入れ替わりは、その話者に戻す。同じ録音の 10 分を、端から端まで処理して比べると（旧い動作 → 新しい既定）、字幕に出る話者は 32 → 4、話者交代の回数は 85 → 48、2 文字以下の字幕は 82 → 69 件になった。
 - **取得済みの Whisper モデルは、保存先のフォルダーを直接読み込む**: これまでは名前で渡していたため、faster-whisper が実行のたびに Hugging Face へ問い合わせ、新しい版があれば断りなく取り直すことがあった。これからは、更新の確認画面で許可したときだけ更新する。オフラインでの動作は変わらない。
 
+### Security
+- **「PC 上の LLM」への通信が、Windows のプロキシ設定や環境変数のプロキシを通らないようにした**: これまでは、システムのプロキシが有効だと、`127.0.0.1` への通信もプロキシ経由になり、文章が PC の外へ出る可能性があった。「文章は PC の外へ出ない」という説明どおりに、プロキシを使わず、直接つなぐ。
+- **他人から受け取った編集セッション（`.snipsync.json`）が、書き出し先を決められないようにした**: セッション内の `title`（清書の出力名に使う）は、パスの区切り・ドライブ・`..` を含むとき、空にして、ファイル名から決める。タイムラインの書き直し先は、セッション内の別の場所ではなく、そのセッションと同じフォルダーにする。
+
+### Fixed
+- 字幕確認・編集画面の下の状態表示（保存先・タイムラインの書き直しの結果・失敗の理由）が、ボタンに隠れて切れていた。ボタンの下の段に移した。
+
+### Documentation
+- README（4 言語）を見直し、設定項目の名前を、画面の表示に合わせた。手動のカット・倍速、波形の拡大・縮小、数値指定、字幕を消すと同時にカット、話者タブ、清書の説明と、スクリーンショット・GIF を追加した。画像はすべて撮り直した（合成音声 2 人分の見本録音を使い、個人の録画は使っていない）。
+
 ---
 
 ## [0.2.0] — 2026-10-05
